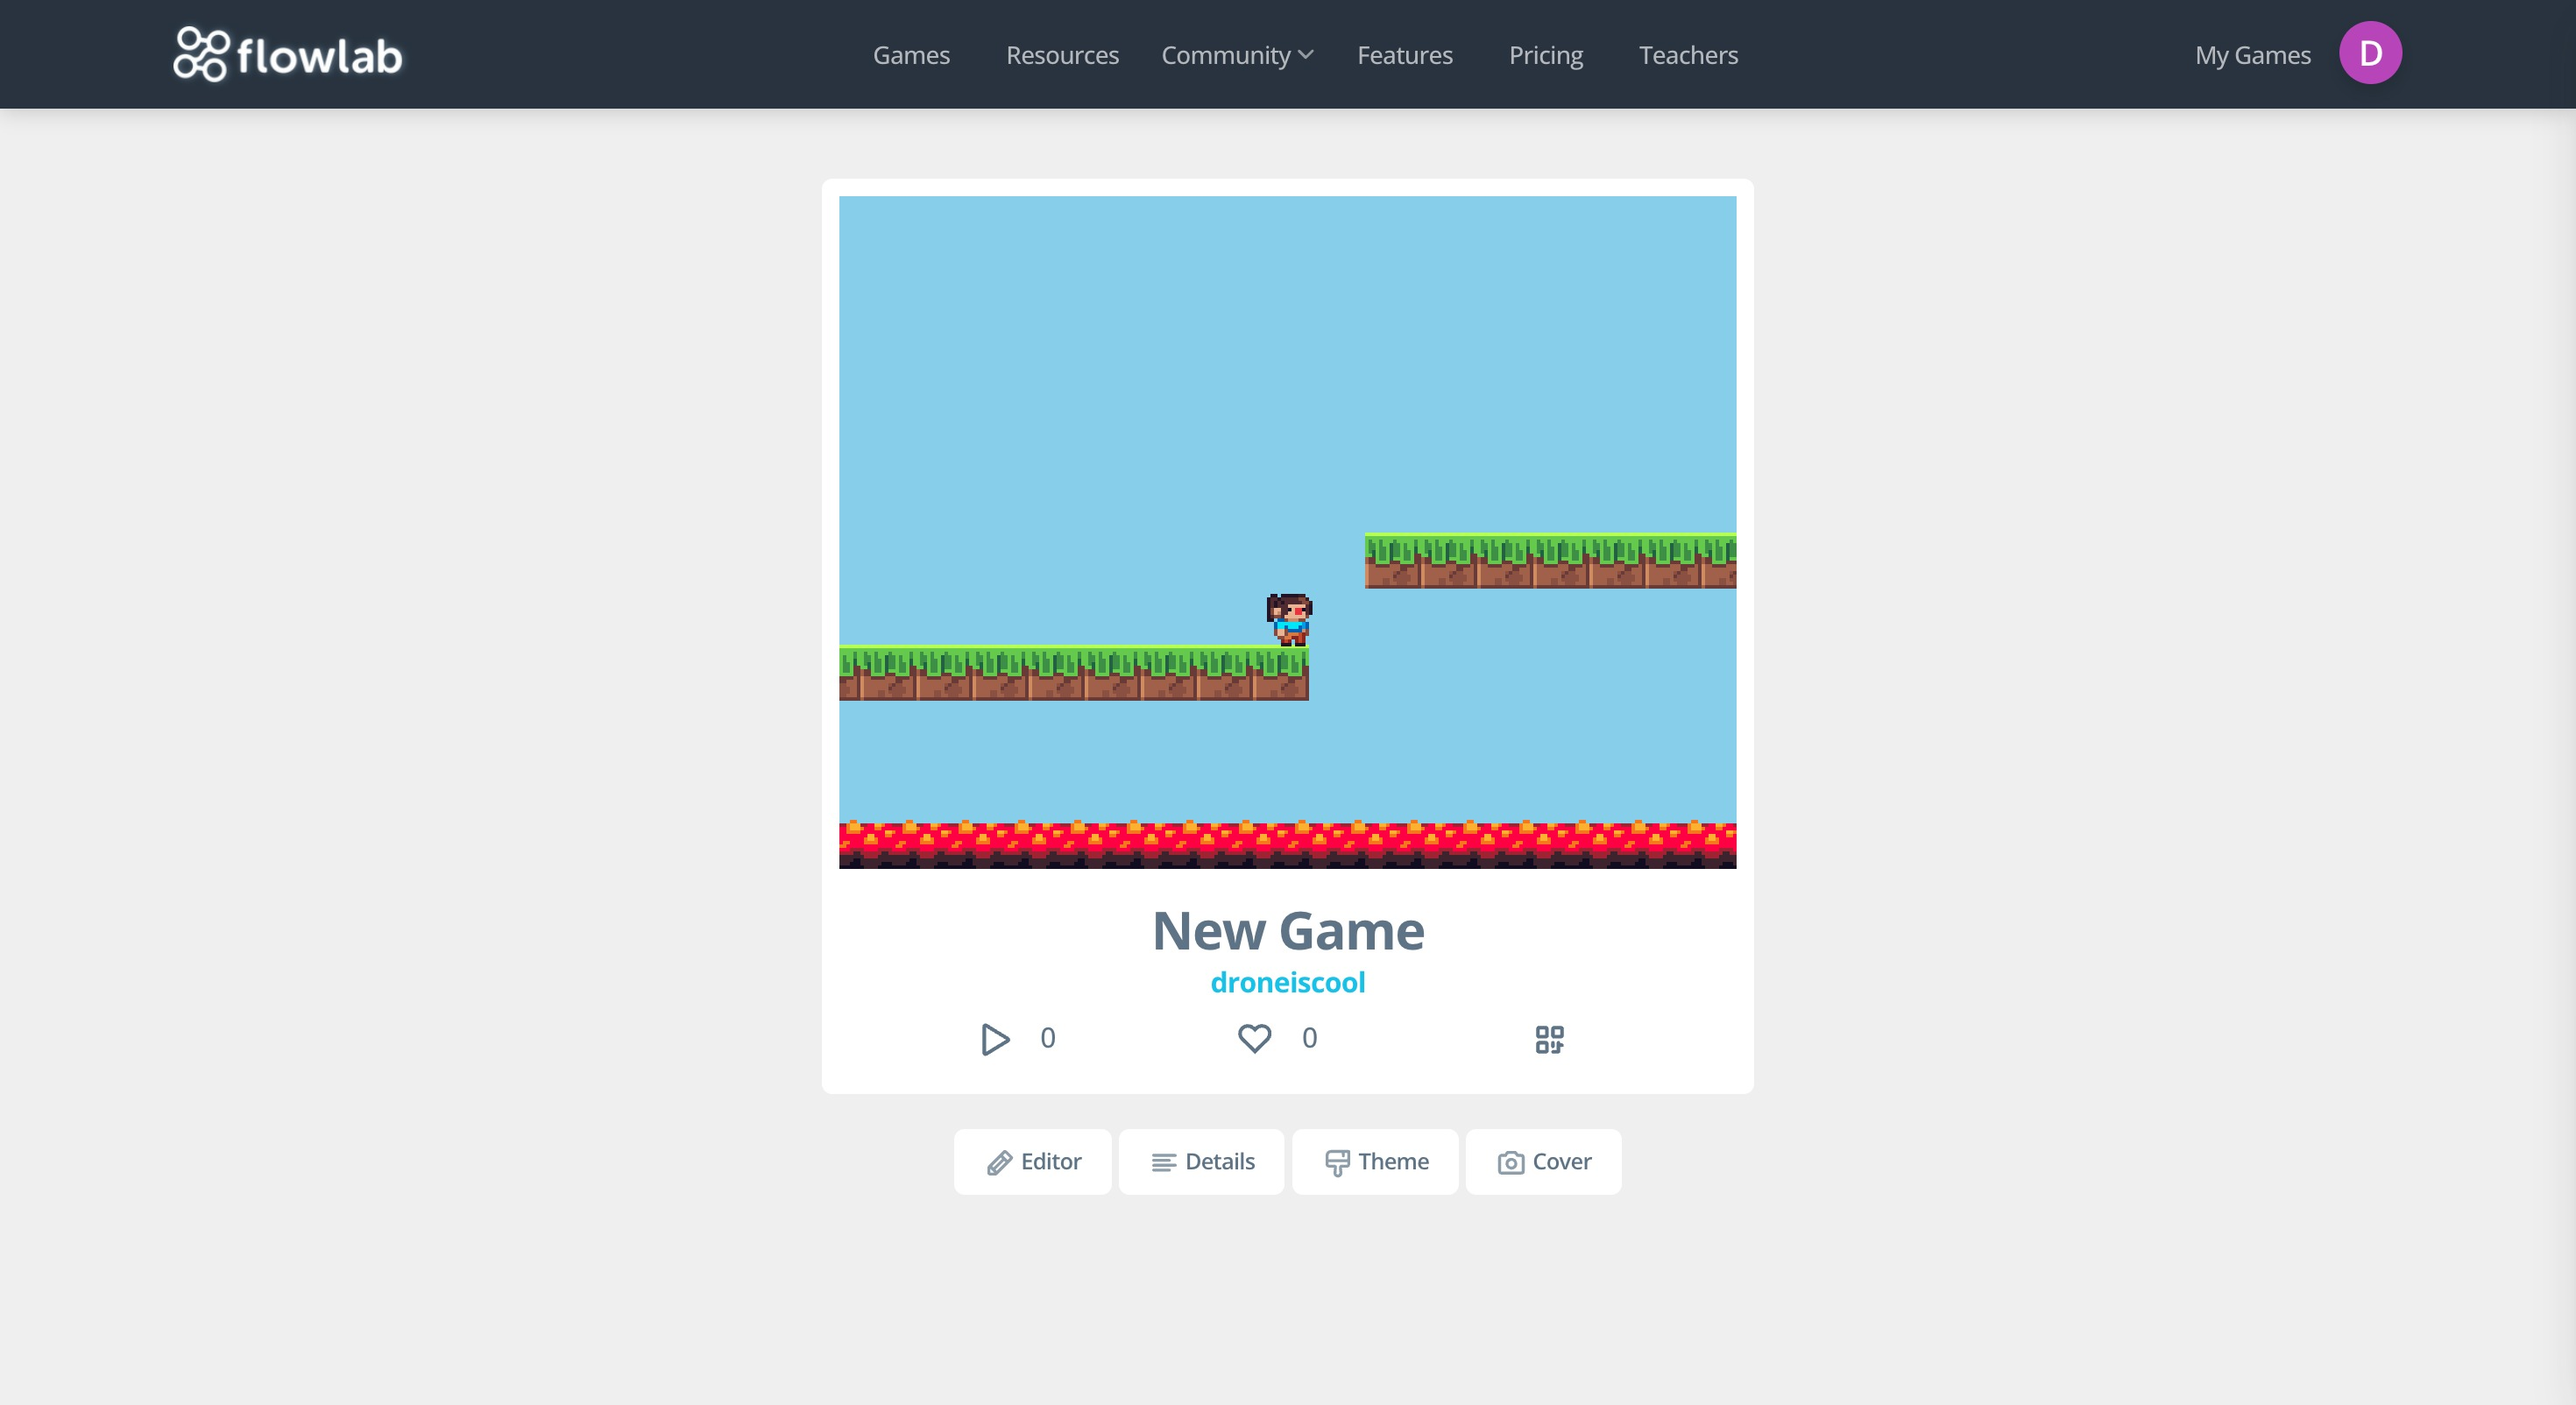
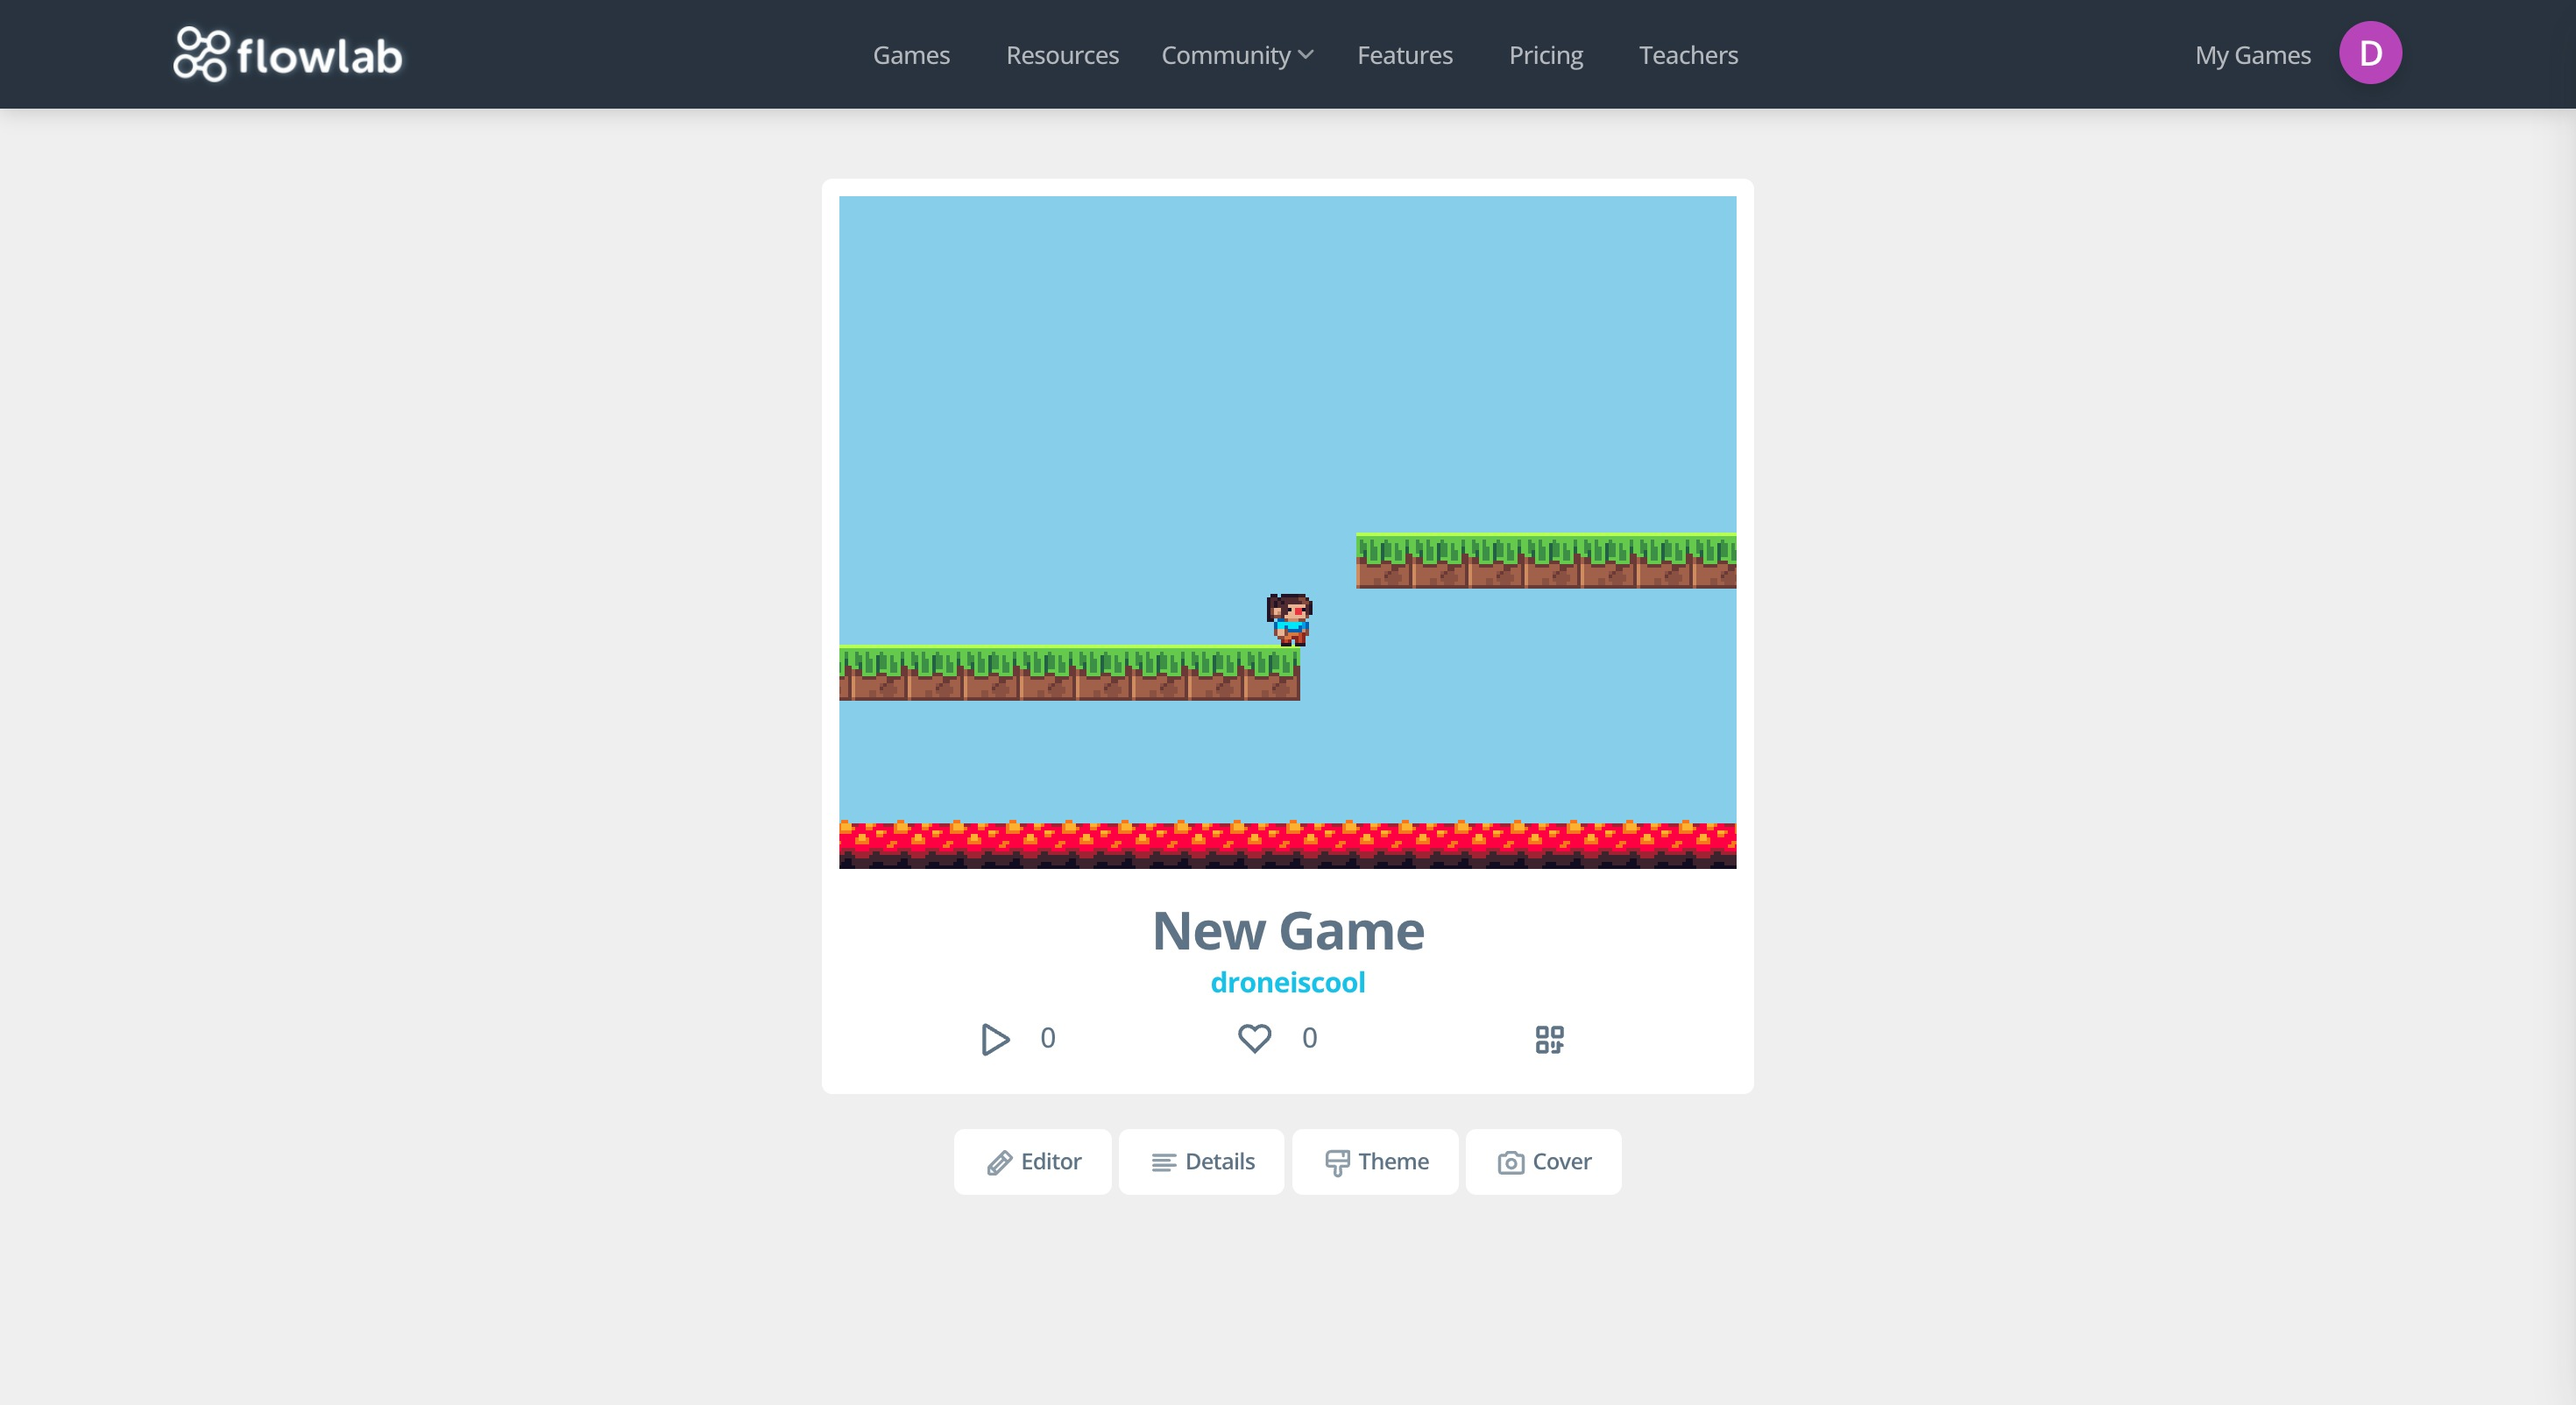
Limpei o jogo da Aula 2, que eu mesmo tinha sujado medindo a Aula 4
Erro meu, em dois tempos. Primeiro escrevi no estado que `3152363` «seria
descartavel se a recaptura nao fosse a ultima» — e depois repeti isso como
FATO, no resumo e nas medicoes. Ele e a Aula 2 que esta no ar.

Resultado: fiz as medicoes de `Keyboard`, `Timer` e `Spawn` DENTRO do jogo
publicado. Ele ficou com um `Timer` ligado a um `Spawn` criando um bloco de
lava no canto de cima a esquerda, um segundo depois do Play. Quem abrisse o
link da aula veria isso.

Consertado: os dois blocos apagados, a mesa fechada e gravada, e a aula
REPROVADA em jogo — pulo 400 px, reinicio na lava, camera seguindo (chao
desliza 192 px). Medido tambem o que o defeito deixava para tras: ZERO pixels
de lava acima da linha, e o canto do jogo de volta a cor do ceu.

`apaga_jogo.py` passa a existir e RECUSA qualquer id que esteja num
`aulaN/jogo.txt`. Dois descartes de verdade foram apagados (`3151717` e
`3152352`); o Flowlab guarda os apagados uma semana na lixeira.

A licao, escrita no estado: na conta todos os jogos se chamam `New Game` e
nenhum tem miniatura. O endereco que vale e sempre o de `aulaN/jogo.txt`,
lido na hora — nunca o que eu anotei antes de a captura terminar.

Changed region(s): [[0.3095, 0.5611, 0.681, 0.6234], [0.5262, 0.3741, 0.681, 0.4364], [0.3095, 0.4676, 0.5262, 0.4988]]

diff --git a/fonte/apaga_jogo.py b/fonte/apaga_jogo.py
@@ -1,0 +1,51 @@
+import sys, time, json, glob, urllib.request
+sys.path.insert(0, "/Users/shoio/Coding/robotomia-flowlab/fonte")
+import comum, nav, editor, rs
+
+def aval(js):
+    d = json.dumps({"js": js}).encode()
+    r = urllib.request.urlopen(urllib.request.Request(
+        "http://127.0.0.1:8765/aval", data=d,
+        headers={"content-type": "application/json"}), timeout=20)
+    return json.loads(r.read()).get("valor")
+
+EM_USO = {open(f).read().strip().rsplit("/", 1)[-1]
+          for f in glob.glob("/Users/shoio/Coding/robotomia-flowlab/fonte/aula*/jogo.txt")}
+
+jid = sys.argv[1]
+if jid in EM_USO:
+    raise SystemExit(f"RECUSADO: {jid} e o jogo de uma aula ({sorted(EM_USO)})")
+print("em uso pelas aulas:", sorted(EM_USO), "| apagando:", jid, flush=True)
+
+nav.vai("https://flowlab.io/games/mine", espera=6); time.sleep(6); nav.espera_parar(limite=30)
+antes = int(aval('document.querySelectorAll(\'a[href*="/game/edit/"]\').length'))
+print("jogos antes:", antes, flush=True)
+r = aval(f'''(()=>{{
+  const a=document.querySelector('a[href$="/game/edit/{jid}"]');
+  if(!a) return "ausente";
+  const card=a.closest('div.card'); card.scrollIntoView({{block:'center'}});
+  card.querySelector('button[data-toggle=dropdown]').click();
+  const del=[...card.querySelectorAll('a.dropdown-item')].find(e=>e.textContent.trim()==='Delete');
+  del.click();
+  return "abriu";
+}})()''')
+print("menu/delete:", r, flush=True)
+if r != "abriu":
+    raise SystemExit(f"{jid} nao esta na lista")
+time.sleep(2.5)
+a, _ = nav.captura(f"/tmp/_cf_{jid}.png")
+if not rs.tem_texto("deleted games can be restored", arquivo=a):
+    raise SystemExit("o modal de confirmacao nao apareceu — nao vou clicar as cegas")
+p = nav.acha_cor((237, 110, 85), tol=40, regiao=(0.3, 0.3, 0.9, 0.8),
+                 minimo=2000, arquivo=a)
+if not p:
+    raise SystemExit("nao achei o botao de confirmar")
+print("confirmando em", p[:2], flush=True)
+rs.clique_img(p[0], p[1], escala=2.0, janela=nav.janela()); time.sleep(3)
+nav.espera_parar(limite=20)
+depois = int(aval('document.querySelectorAll(\'a[href*="/game/edit/"]\').length'))
+ainda = int(aval(f'document.querySelectorAll(\'a[href$="/game/edit/{jid}"]\').length'))
+print(f"jogos depois: {depois}  (antes {antes})  |  {jid} ainda na lista: {ainda}", flush=True)
+for u in sorted(EM_USO):
+    n = int(aval(f'document.querySelectorAll(\'a[href$="/game/edit/{u}"]\').length'))
+    print(f"   aula com jogo {u}: {'OK' if n else 'SUMIU!!'}", flush=True)

diff --git a/fonte/ESTADO.md b/fonte/ESTADO.md
@@ -98,9 +98,16 @@ propósito).
   bancada**, antes de a aula ser desenhada (§2k do `PADRAO.md`): o `Keyboard`
   solto dispara, o `Timer` dispara sozinho e o `Spawn` cria objeto. Só o
   `MouseClick` continua sem medida. Falta escrever os 20 passos e o `cap4.py`.
-- **Os jogos de rascunho na conta.** Sobraram vários `New Game` sem uso. Três
-  deles são Aulas 2 descartadas nesta madrugada: `3151717` (o boneco que não
-  pula), `3152352` e `3152363` se a recaptura não for a última. O endereço que
-  vale é sempre o de `aulaN/jogo.txt` — na conta todos se chamam `New Game` e
-  nenhum tem miniatura, então não há como escolher pelo nome. Apagar depende
-  dele pedir.
+- **Os jogos de rascunho na conta: sobram 46.** Dois foram apagados em 07-10
+  (`3151717`, o boneco que não pulava, e `3152352`, a captura que falhou na
+  estrela). O Flowlab guarda os apagados **uma semana** na lixeira.
+
+  ⚠ **O endereço que vale é SEMPRE o de `aulaN/jogo.txt`, lido na hora.** Eu
+  escrevi aqui que `3152363` «seria descartável se a recaptura não fosse a
+  última», e depois repeti isso como fato — e ele é a Aula 2 que está no ar.
+  Na conta todos se chamam `New Game` e nenhum tem miniatura: não há como
+  reconhecer pelo nome, só pelo id. O script de apagar recusa qualquer id que
+  esteja num `jogo.txt`.
+
+  Os outros 43 são rascunhos das medições e de capturas antigas. Apagar em
+  lote depende dele pedir.
